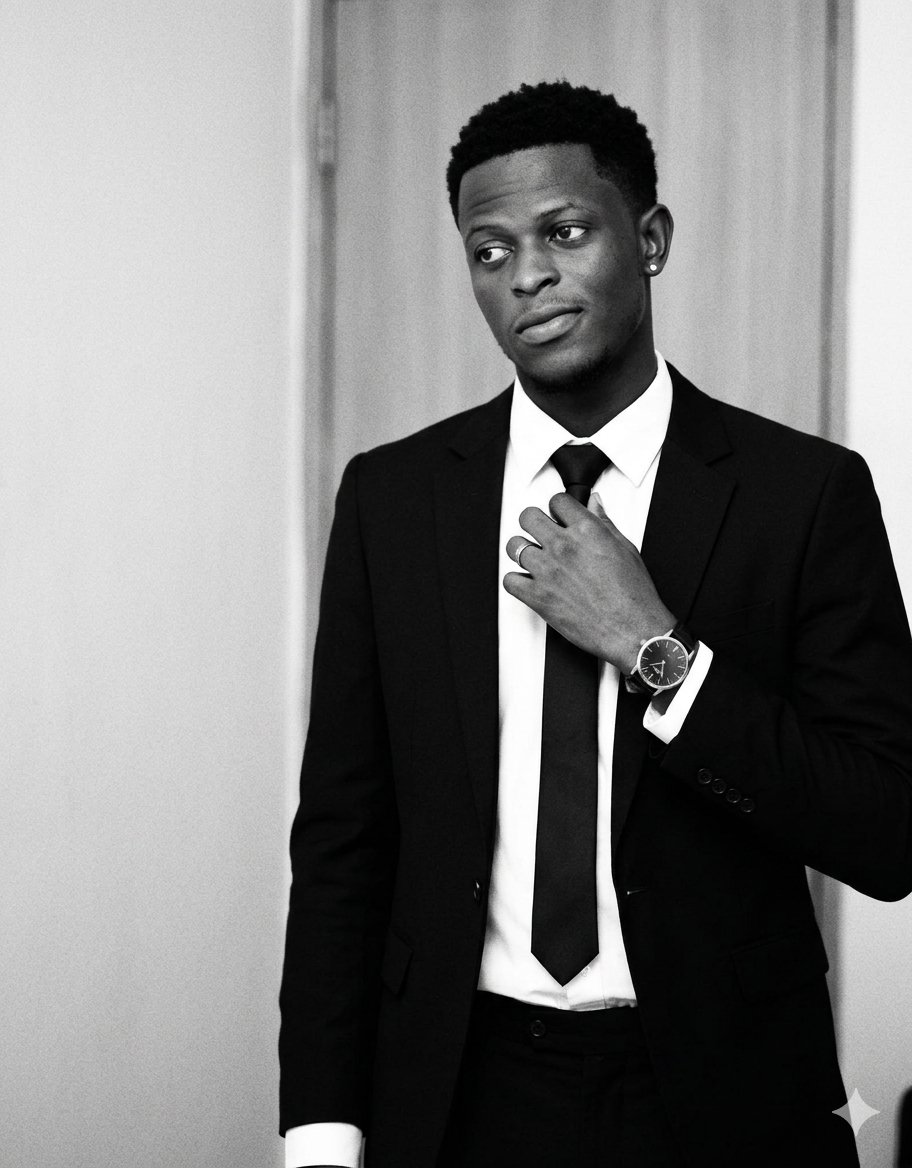
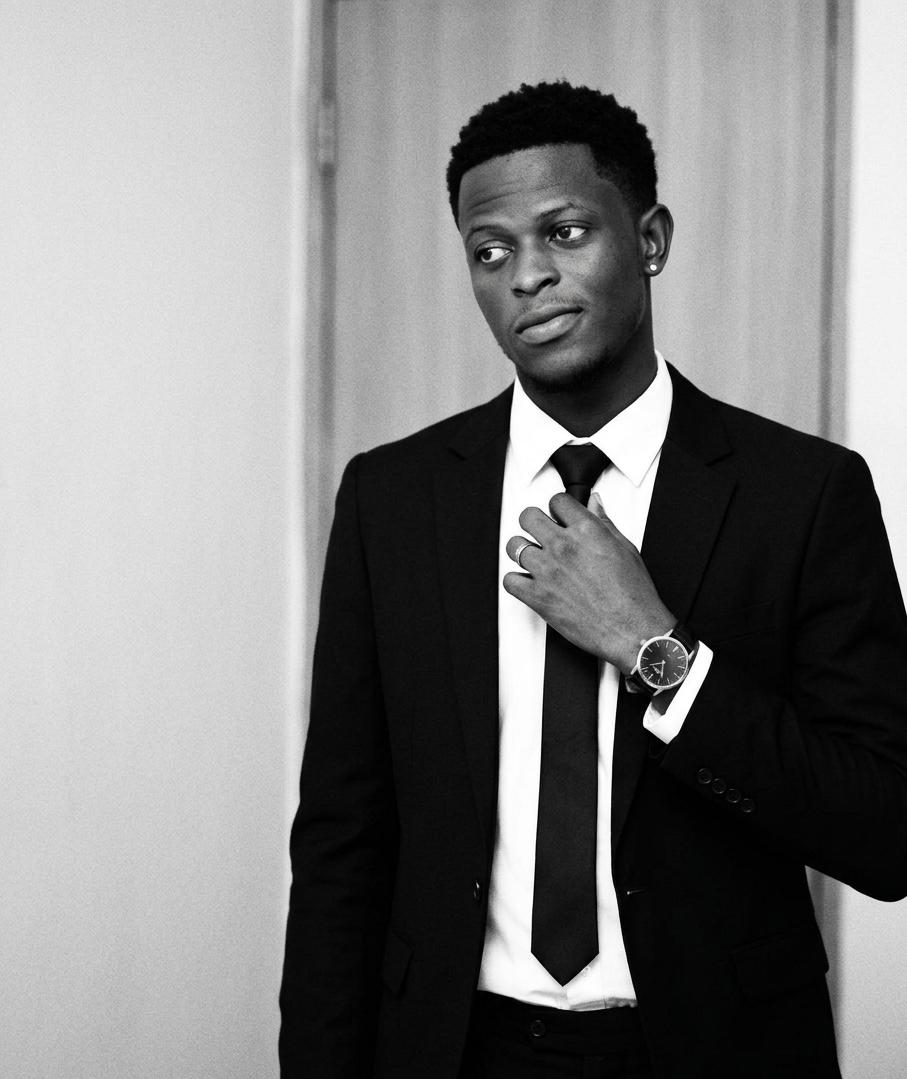
Remove background from profile portrait (#3)
* Build professional portfolio site

* Use background-free profile portrait

---------

diff --git a/src/components/Sections.tsx b/src/components/Sections.tsx
@@ -147,10 +147,10 @@ export function Hero() {
         <div className="portrait-frame">
           <img
             className="portrait"
-            src={`${import.meta.env.BASE_URL}assets/profile.jpg`}
+            src={`${import.meta.env.BASE_URL}assets/profile-cutout.png`}
             alt="Muhammed K Ceesay"
-            width="912"
-            height="1168"
+            width="907"
+            height="1079"
             fetchPriority="high"
           />
           <span className="portrait-caption">BUILDING FROM THE GAMBIA</span>

diff --git a/index.html b/index.html
@@ -23,7 +23,7 @@
     />
     <meta
       property="og:image"
-      content="https://mahaceesay84-stack.github.io/single-profile-09/assets/profile.jpg"
+      content="https://mahaceesay84-stack.github.io/single-profile-09/assets/profile-cutout.png"
     />
     <meta name="twitter:card" content="summary_large_image" />
     <meta

diff --git a/README.md b/README.md
@@ -32,7 +32,7 @@ For GitHub Pages, add a repository variable named `VITE_FORMSPREE_ENDPOINT` unde
 
 - Projects, case-study text, and repository/live links: `src/data/projects.ts`
 - Skills: `src/components/Sections.tsx`
-- Portrait and project images: `public/assets/`
+- Transparent profile portrait and project images: `public/assets/`
 - Design tokens and responsive styles: `src/index.css`
 
 The project cards use screenshots from the live AI Task Assistant and Dalasi Tip Splitter, plus the supplied UTG Digital Student Services screenshot. No project image is published for To-do List, so that card intentionally displays a neutral no-image notice instead of invented artwork. The UTG student clearance entry is a prototype, not an official University of The Gambia service. Live demo links are only shown for projects with a published demo; add a `liveUrl` in `src/data/projects.ts` when another project is deployed.
@@ -48,9 +48,8 @@ npm run preview
 
 ## Deploy to GitHub Pages
 
-1. Push changes to `main`.
-2. In repository **Settings → Pages**, select **GitHub Actions** as the build and deployment source.
-3. The workflow at `.github/workflows/deploy.yml` builds the Vite site and deploys `dist` on each push to `main`.
-4. The Vite base path is configured for this repository at `/single-profile-09/`. If the repository is renamed, update `base` in `vite.config.ts` and the canonical, Open Graph, and sitemap URLs in `index.html` and `public/sitemap.xml`.
+1. In repository **Settings → Pages**, choose **Deploy from a branch**, select `gh-pages` and the root folder, then save.
+2. Push changes to `main`. The workflow at `.github/workflows/deploy.yml` builds the Vite site and publishes `dist` to `gh-pages`.
+3. The Vite base path is configured for this repository at `/single-profile-09/`. If the repository is renamed, update `base` in `vite.config.ts` and the canonical, Open Graph, and sitemap URLs in `index.html` and `public/sitemap.xml`.
 
 The Formspree endpoint is public client-side configuration; configure spam controls and allowed domains in Formspree as appropriate.
